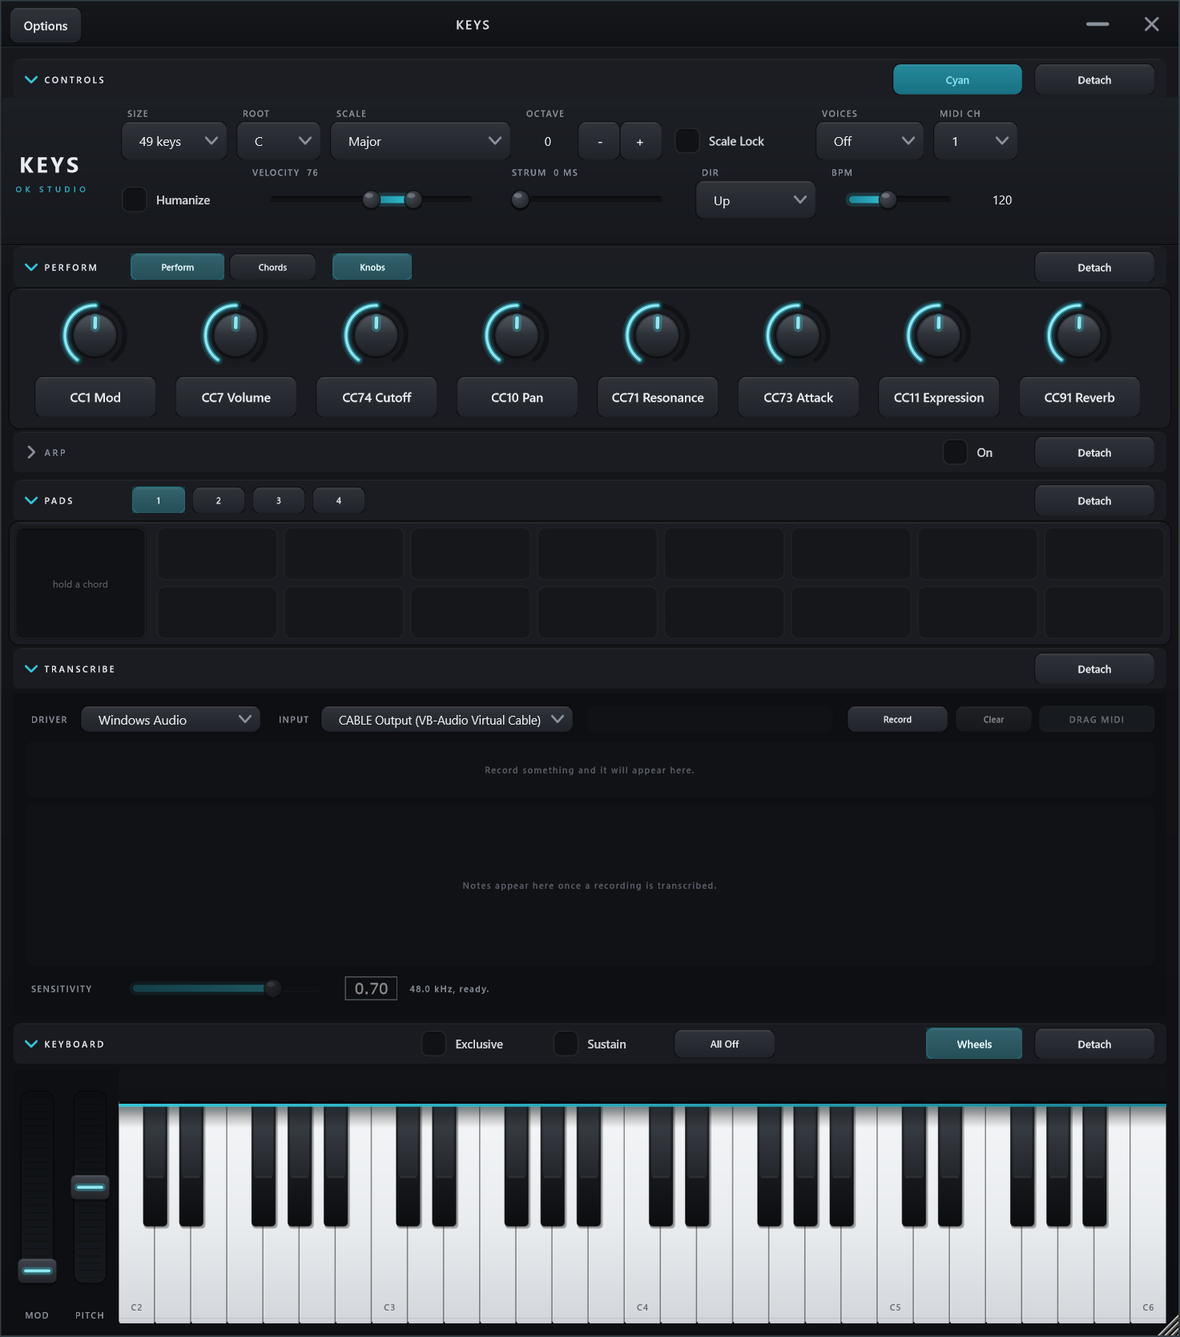
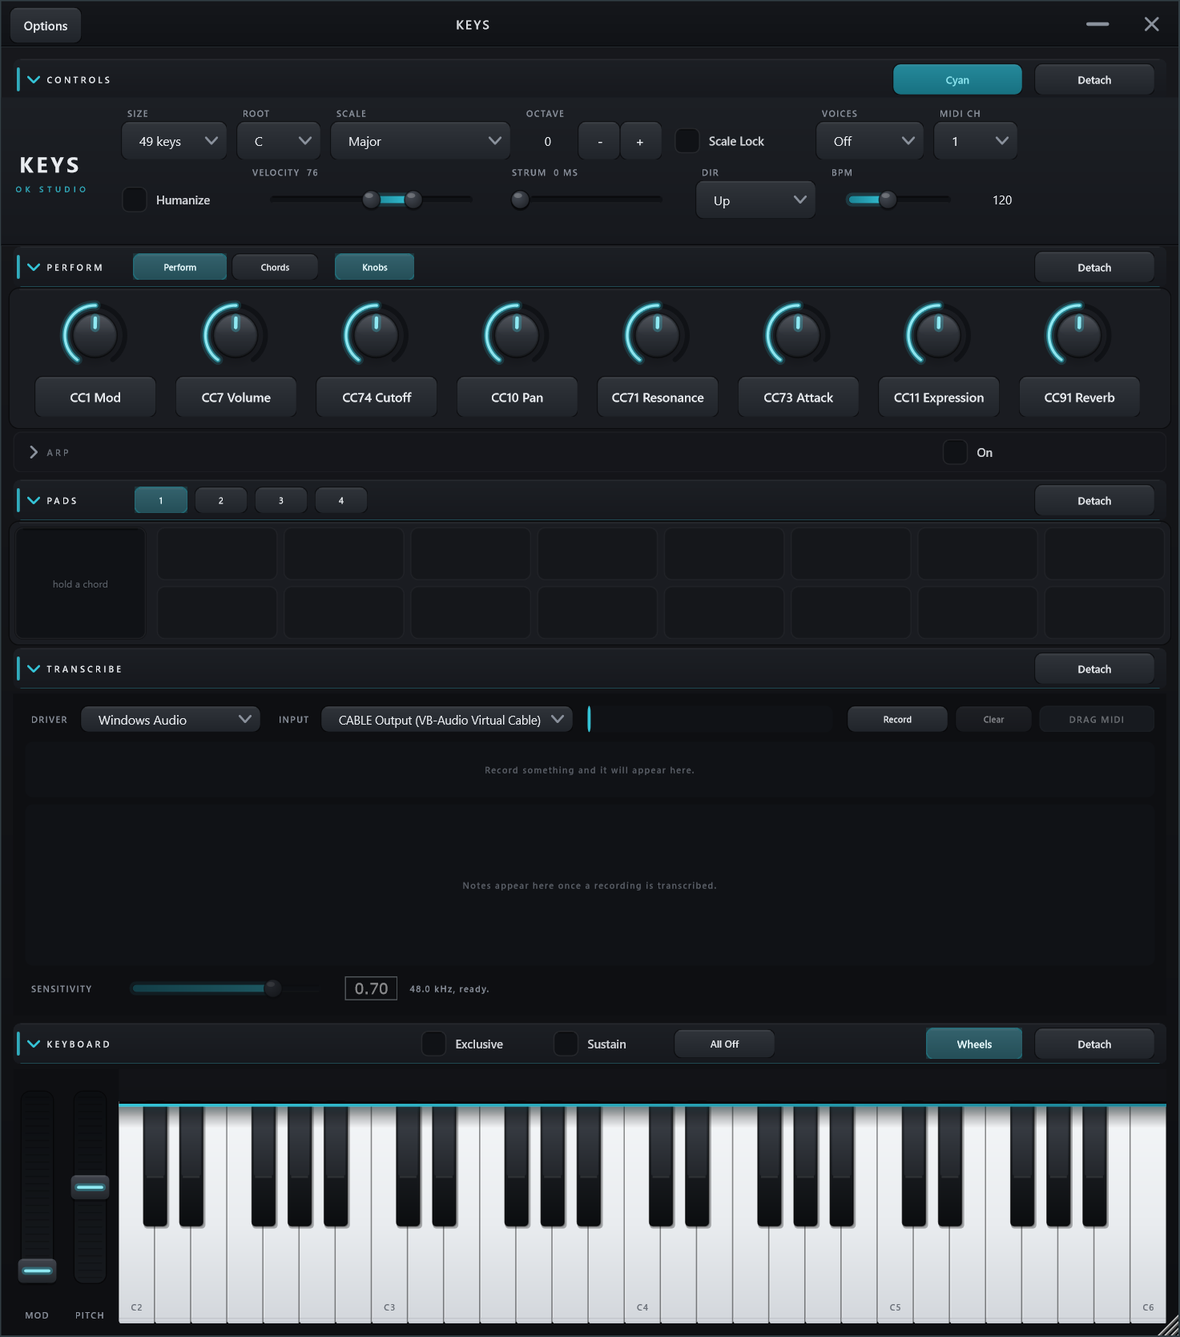
feat: the whole bar folds a section, and open and folded bars look different
Three of Owen's asks, all about the section bars.

The whole bar folds its section again. It had been narrowed to the chevron
end, to stop a click that missed a tab or a chip from folding the section by
accident - but that accident was never possible: the controls on a bar are
its siblings and sit in front of it, so z-order already stopped the bar from
stealing their clicks. What the narrowing actually did was make a full-width
34 px strip that looks like a button answer along one 40 px end of itself, so
the target got harder to hit in a plugin whose contract is that targets are
big. Reverts the "only the chevron folds a section" change, and the CHANGELOG
entry for that one now says so.

Open and folded bars are painted at different weights. Open is a solid ruled
band - gradient fill, hairline above, accent rule below where it meets its
content, brighter caption, a tick of accent at the left end. Folded is flat,
dim and outlined. Six stacked read as a shape before any caption is read,
which matters because the window is mostly bars once it is squeezed small.
All six keep the one accent colour; per-section tints would have been six.

Detach hides with its section. Folded away it was the loudest thing left on a
bar whose job is to be quiet, and it offered a gesture with nothing behind it:
detaching a folded section built a window that opened hidden. Every other
control on a bar already hid with its section, so this was the odd one out.
[…]

diff --git a/src/ui/SectionBar.h b/src/ui/SectionBar.h
@@ -13,11 +13,14 @@ namespace keys
 // contract for free: single left-click, no modifiers, and a real accessible name for the
 // UI Automation path the screenshot script uses.
 //
-// Only the chevron end folds the section, not the whole bar. The bar carries the section's
-// own controls (tabs, chips, the theme swatch), and with the entire strip live, a click
-// that missed one of those by a few pixels folded the section instead — an easy mistake to
-// make and an annoying one to undo. The hit zone is still a full 40x34 box, well past the
-// mouse-only floor; it is only the *glyph* inside it that is small.
+// **The whole bar folds it** (2026-07-27, Owen's ask). It used to be the chevron end alone,
+// on the reasoning that a click missing one of the bar's own controls by a few pixels would
+// fold the section by accident. In practice the opposite was the problem: a 40 px target on
+// a 34 px-tall full-width strip reads as if the strip is the button, so aiming at the
+// chevron was the fiddly part, and the mouse-only contract is about making targets *bigger*.
+// The controls that ride on the bar are its siblings and sit in front of it (KeysEditor
+// toBack()s every bar), so they still take their own clicks; the bar only ever gets what
+// they do not want.
 //
 // The bar is not just chrome: callers hang the section's own small controls in the space
 // to the right of the caption (see KeysEditor::resized), which is why it exposes
@@ -50,42 +53,62 @@ public:
         repaint();
     }
 
-    // The only part of the bar that reacts to a click.
-    juce::Rectangle<int> chevronZone() const { return getLocalBounds().withWidth(40); }
-
-    // Clicks outside the chevron fall through to whatever is under them, so the bar can
-    // stay full-width for painting without swallowing anything.
-    bool hitTest(int x, int y) override { return chevronZone().contains(x, y); }
-
     // Where a caller may put section controls: right of the caption, inset from the ends.
     // In the *parent's* coordinates, because those controls are the bar's siblings, not
     // its children — the bar is a Button and must keep the whole of itself clickable.
     juce::Rectangle<int> contentArea() const
     {
-        return getBoundsInParent().withTrimmedLeft(26 + captionWidth() + 12).withTrimmedRight(8).reduced(0, 4);
+        return getBoundsInParent().withTrimmedLeft(28 + captionWidth() + 12).withTrimmedRight(8).reduced(0, 4);
     }
 
     void paintButton(juce::Graphics& g, bool highlighted, bool down) override
     {
         const auto b = getLocalBounds().toFloat();
         const bool open = getToggleState();
+        const auto accent = skin::accentOf(*this).base;
 
-        g.setColour(skin::headerTop.withAlpha(0.75f));
-        g.fillRoundedRectangle(b, skin::radius);
-        g.setColour(juce::Colours::white.withAlpha(0.04f));
-        g.fillRoundedRectangle(b.withHeight(1.0f).reduced(skin::radius, 0.0f), 0.5f);
+        // Open and folded are deliberately different weights, not the same bar with a
+        // different arrow (Owen's ask, 2026-07-27). An open section's header is a solid
+        // ruled band that reads as the lid of the thing under it; a folded one is a flat
+        // dim strip that reads as a closed drawer. With six of these stacked, the shape of
+        // the window is legible before you read a single caption.
+        if (open)
+        {
+            g.setGradientFill({ skin::headerTop, b.getX(), b.getY(),
+                                skin::headerBot, b.getX(), b.getBottom(), false });
+            g.fillRoundedRectangle(b, skin::radius);
 
-        // Light only the chevron end under the mouse. The whole bar used to light up,
-        // which advertised the whole bar as the target - and it was. Now the highlight
-        // says exactly where the click has to land.
+            // Top highlight and bottom rule: the two edges that make it a band rather than
+            // a smear. The rule is the one that does the work - it is the join between the
+            // header and its content.
+            g.setColour(juce::Colours::white.withAlpha(0.05f));
+            g.fillRect(b.withHeight(1.0f).reduced(skin::radius, 0.0f));
+            g.setColour(accent.withAlpha(0.28f));
+            g.fillRect(b.withTop(b.getBottom() - 1.0f).reduced(skin::radius, 0.0f));
+
+            // A tick of accent at the left end, so the eye finds the stack of open sections
+            // down the left edge without any of them shouting.
+            g.setColour(accent.withAlpha(0.85f));
+            g.fillRoundedRectangle(juce::Rectangle<float>(3.0f, 7.0f, 2.5f, b.getHeight() - 14.0f), 1.25f);
+        }
+        else
+        {
+            g.setColour(skin::headerBot.withAlpha(0.55f));
+            g.fillRoundedRectangle(b, skin::radius);
+            g.setColour(juce::Colours::white.withAlpha(0.03f));
+            g.drawRoundedRectangle(b.reduced(0.5f), skin::radius, 1.0f);
+        }
+
+        // The whole bar is the target now, so the whole bar lights. Anything less would
+        // advertise a smaller button than the one that is actually there.
         if (highlighted || down)
         {
-            g.setColour(juce::Colours::white.withAlpha(down ? 0.10f : 0.06f));
-            g.fillRoundedRectangle(chevronZone().toFloat().reduced(3.0f, 3.0f), skin::radius);
+            g.setColour(juce::Colours::white.withAlpha(down ? 0.09f : 0.05f));
+            g.fillRoundedRectangle(b.reduced(1.0f), skin::radius);
         }
 
         // Disclosure chevron: down when open, right when folded away.
-        const auto centre = juce::Point<float>(15.0f, b.getCentreY());
+        const auto centre = juce::Point<float>(17.0f, b.getCentreY());
         juce::Path chevron;
         if (open)
         {
@@ -99,18 +122,28 @@ public:
             chevron.lineTo(centre.x + 2.5f, centre.y);
             chevron.lineTo(centre.x - 2.0f, centre.y + 4.5f);
         }
-        g.setColour(open ? skin::accentOf(*this).base : skin::textDim);
+        g.setColour(open ? accent : skin::textDim);
         g.strokePath(chevron, juce::PathStrokeType(1.8f, juce::PathStrokeType::curved,
                                                    juce::PathStrokeType::rounded));
 
-        g.setColour(open ? skin::text : skin::textDim);
-        g.setFont(skin::micro(10.0f).withExtraKerningFactor(0.16f));
-        g.drawText(title.toUpperCase(), getLocalBounds().withTrimmedLeft(26).withWidth(captionWidth()),
+        g.setColour(open ? skin::text : skin::textDim.withAlpha(0.75f));
+        g.setFont(captionFont());
+        g.drawText(title.toUpperCase(), getLocalBounds().withTrimmedLeft(28).withWidth(captionWidth()),
                    juce::Justification::centredLeft);
     }
 
 private:
-    int captionWidth() const { return juce::jmax(60, (int) std::ceil(skin::micro(10.0f).getStringWidthFloat(title.toUpperCase())) + 8); }
+    // One font for measuring and for drawing. They used to differ - captionWidth() measured
+    // the plain micro face while paintButton drew it letter-spaced - so the box was always a
+    // little narrower than the text in it, and the longest caption ellipsised to "TRANSCRI...".
+    // The kerning is also deliberately the same open and folded: it feeds contentArea(), and a
+    // caption box that changed width with the fold would shift every control on the bar.
+    static juce::Font captionFont() { return skin::micro(10.0f).withExtraKerningFactor(0.2f); }
+
+    int captionWidth() const
+    {
+        return juce::jmax(60, (int) std::ceil(captionFont().getStringWidthFloat(title.toUpperCase())) + 8);
+    }
 
     juce::String title;
 

diff --git a/src/PluginEditor.cpp b/src/PluginEditor.cpp
@@ -681,6 +681,16 @@ void KeysEditor::syncSectionControls()
         // to a screen reader and made UI Automation pick whichever it found first. Say which
         // section each one moves.
         s.detachButton.setTitle(s.detachButton.getButtonText() + " " + s.name);
+        // Detach goes away with the section it detaches (2026-07-27, Owen's ask). Folded
+        // away, it was the loudest thing left on a bar whose whole job is to be quiet, and
+        // it offered a gesture with nothing behind it: detaching a folded section built a
+        // window that opened hidden. Every other control on a bar already hides with its
+        // section - the pad pages, the Knobs chip, Wheels - so this was the odd one out
+        // rather than a rule being broken. The deliberate exceptions stay: the arp's On
+        // (folding the panel must not stop the arpeggiator), the centre's two tabs (they
+        // are how a folded centre comes back) and the theme swatch (it belongs to the
+        // plugin, not the section).
+        s.detachButton.setVisible(*s.open);
         // A holder is visible whenever its section is open, wherever it is parented: being
         // detached is a change of parent, not of visibility. Folding a detached section
         // hides its window instead of its slot, so one control means one thing.

diff --git a/docs/CONTROLS.md b/docs/CONTROLS.md
@@ -37,10 +37,16 @@ transient (they don't save with the session) and send on the current MIDI channe
 ## Folding the window down
 
 Keys is a stack of sections, and each one folds away so the plugin can be squeezed small
-when the screen is busy. **Click the chevron at the left end of a section bar** — only
-that end folds it, so a click that misses a control next to it can't collapse the section
-by accident. The window resizes itself to whatever the folds add up to, and can never be
-dragged smaller than the content it is showing.
+when the screen is busy. **Click anywhere on a section bar** to fold it, or on a folded one
+to bring it back — the whole 34 px strip is the button, not just the chevron at its left
+end. The controls that sit on a bar take their own clicks first, so hitting **Detach** or
+**On** does what it says; the bar only gets what they don't want. The window resizes itself
+to whatever the folds add up to, and can never be dragged smaller than the content it is
+showing.
+
+An open section's bar is a solid ruled band with a bright caption and a tick of accent at
+its left end. A folded one goes flat and dim and drops its Detach button. So the shape of
+the window reads at a glance, before you have read a single caption.
 
 | Section | Bar | Folds away |
 |---------|-----|-----------|
@@ -53,11 +59,15 @@ dragged smaller than the content it is showing.
 
 ### Detaching a section
 
-**Every section bar has a Detach button**, at its right-hand end. It puts that section in a
-resizable window of its own, which you can put anywhere on the desk and size to suit. Inside
-that window a **Re-dock** button sits at the top, and the window's close box does the same
-thing; either brings the section home. Each window's position and size are remembered with
-the session, and one that ends up off-screen is pulled back on before it opens.
+**Every open section bar has a Detach button**, at its right-hand end. It puts that section
+in a resizable window of its own, which you can put anywhere on the desk and size to suit.
+Inside that window a **Re-dock** button sits at the top, and the window's close box does the
+same thing; either brings the section home. Each window's position and size are remembered
+with the session, and one that ends up off-screen is pulled back on before it opens.
+
+A folded section has no Detach button: unfold it first. There was nothing behind the gesture
+anyway — detaching a folded section built a window that opened hidden — and on a bar whose
+whole job is to be quiet, it was the loudest thing left.
 
 A detached section takes no height in the main window, so this is also the way to keep a tall
 section open and the plugin window small at the same time. Folding a detached section hides
@@ -72,6 +82,12 @@ alongside Re-dock, because those belong to the keybed rather than to the editor.
 What stays behind on a bar is whatever belongs to the editor rather than to the section: the
 **Perform / Chords** tabs, the arp's **On** toggle, the pad page buttons, and the theme
 swatch. All of them keep working while the section they name is off in a window.
+
+Folding is the other case, and a stricter one: a folded bar keeps only what still means
+something with the section gone — the arp's **On** (so the arpeggiator runs on behind a
+closed panel), the **Perform / Chords** tabs (they are how a folded centre comes back) and
+the theme swatch (it colours the whole plugin). Everything else goes with the section,
+Detach included.
 
 ## Transcribe
 

diff --git a/docs/ARCHITECTURE.md b/docs/ARCHITECTURE.md
@@ -269,7 +269,11 @@ window of its own: **Controls** (the two header rows), the **centre view**, the 
 **Pads**, **Transcribe**, and the **Keyboard** (with the wheels as a sub-fold).
 `SectionBar` is the fold affordance — a `juce::Button` so the mouse-only contract and the
 accessible name come for free, with the section's own small controls laid out as its
-siblings in `contentArea()`.
+siblings in `contentArea()`. The whole bar is the target, and it paints open and folded at
+different weights (see below). One trap: `captionWidth()` feeds both the caption's own text
+box and `contentArea()`, so it and `paintButton()` have to measure with the same
+`captionFont()` — measure narrower than you draw and the longest caption ellipsises; vary
+the font with the fold state and every control on the bar shifts when the section folds.
 
 **Transcribe** is the odd one out: it is the only part of Keys that consumes audio rather
 than producing MIDI, and the only section whose panel owns a device. Like the arp's, its
@@ -295,12 +299,24 @@ reach a chord. Their page buttons ride on the Pads bar. What a card click *means
 arp's own On state (`KeysProcessor::cardsFeedArp`): with the arp running, a click hands that
 chord over and leaves it there instead of playing it while the button is down.
 
-The bars are full-width translucent Buttons and the controls on them are *siblings*, not
-children: a bar stays full-width so it can paint its caption and fold state across the whole
-strip, while `SectionBar::hitTest` narrows what answers a click to the 40 px chevron end, so
-a click that misses a control by a few pixels cannot fold the section by accident. Z-order
-therefore matters: they are sent `toBack()` after construction, or each bar paints over its
-own tabs.
+The bars are full-width Buttons and the controls on them are *siblings*, not children. The
+whole strip answers a click, so folding a section is a 34 px-tall full-width target rather
+than a 40 px box at one end. What keeps that from swallowing the controls riding on it is
+z-order, not hit-testing: the bars are sent `toBack()` after construction, so every sibling
+sits in front and takes its own clicks first, and the bar only ever gets what none of them
+wanted. (That `toBack()` is load-bearing twice over — without it each bar also paints over
+its own tabs.)
+
+`SectionBar` used to narrow its own `hitTest` to the chevron end, on the reasoning that a
+click missing a control by a few pixels would fold the section by accident. It was solving a
+problem z-order already solved, and it cost the thing the mouse-only contract cares about
+most: a full-width strip that looks like a button but only answers along one end makes the
+target *harder* to hit, not safer.
+
+Open and folded bars are painted at deliberately different weights — the open one is a solid
+ruled band with an accent tick, the folded one flat and dim — so a stack of six reads as a
+shape before any caption is read. The Detach button hides with its section for the same
+reason, and because detaching a folded section only ever built a window that opened hidden.
 
 ## The accent is per instance
 

diff --git a/CHANGELOG.md b/CHANGELOG.md
@@ -5,6 +5,32 @@ All notable changes to Keys are documented here. Format follows
 
 ## [Unreleased]
 
+### Changed: the section bars read as headers, and the whole bar folds it again
+
+Three of Owen's asks, all about the same strip.
+
+**The whole bar folds the section again.** It had been narrowed to the chevron end, to stop
+a click that missed a tab or a chip from folding the section by accident. That accident was
+never possible: the controls on a bar are its *siblings* and sit in front of it, so z-order
+already stopped the bar from stealing their clicks. What the narrowing did instead was make
+a full-width 34 px strip that looks like a button answer along one 40 px end of itself — so
+the target got harder to hit, in a plugin whose whole contract is that targets are big.
+
+**Open and folded bars look different now.** An open one is a solid ruled band: a gradient
+fill, a hairline above, an accent rule below where it meets its content, a brighter caption
+and a tick of accent at its left end. A folded one is flat, dim and outlined. Six of these
+stacked read as a shape before you have read a caption, which is the point — the window is
+mostly bars when it is squeezed small. All six stay the one accent colour; the skin has
+exactly one, and per-section tints would have been six.
+
+**Detach hides with its section.** Folded away, it was the loudest thing left on a bar whose
+whole job is to be quiet, and it offered a gesture with nothing behind it: detaching a folded
+section built a window that opened hidden. Every other control on a bar already hid with its
+section — the pad pages, the Knobs chip, Wheels — so this was the odd one out rather than a
+rule being broken. The deliberate exceptions stay put: the arp's **On** (folding the panel
+must never stop the arpeggiator), the centre's two tabs (they are how a folded centre comes
+back) and the theme swatch (it belongs to the plugin, not to a section).
+
 ### Fixed: run.py hung with a blank console instead of launching
 
 Smart App Control gates every freshly linked unsigned build, and it does so **two different
@@ -518,6 +544,11 @@ The whole section bar was the target, so a click that missed a tab or a chip by 
 pixels folded the section instead. Now just the chevron end does — still a full 40x34 hit
 box, and the hover highlight sits on it rather than lighting the whole bar, so where to
 click is visible rather than remembered.
+
+> **Reversed on 2026-07-27** — see "the whole section bar folds it again" above. The
+> accident this was guarding against could not actually happen: the controls on a bar are
+> siblings sitting in front of it, so z-order already stopped the bar from stealing their
+> clicks.
 
 ### Changed: one velocity control, not two
 

diff --git a/README.md b/README.md
@@ -34,8 +34,10 @@ The hex-grid sibling, **Hex Host**, moved out to its own repo: [`../Hex`](../Hex
 
 One view, no tabs: header controls, a centre view (the eight knobs, or the chord
 generator), then the arpeggiator, the chord pads, the transcriber, and the playing surface.
-Every section folds away so the window can be squeezed small, and every one of them also
-detaches into a resizable window of its own.
+Every section folds away so the window can be squeezed small — click anywhere on its bar —
+and every one of them also detaches into a resizable window of its own. An open section's
+bar is a ruled band with a tick of accent; a folded one goes flat and dim, so the shape of
+the window reads before you have read a caption.
 
 ![Keys](assets/screenshots/keys.png)
 
@@ -80,7 +82,7 @@ the generator's cards and the arp slots; only **Send to arp slot** lives nowhere
 | **Arp** | Its own section too. The bar carries an **On** toggle, so the arpeggiator can be switched on with the section folded shut; inside are the control band and twelve launchable slots, each holding a pattern and a chord that one click installs. With it on, clicking a chord card hands that chord to the arp and leaves it there |
 | **Chords** | The chord generator — see below |
 | **Theme** | Colour this instance, so you can tell it from Keys on your other tracks |
-| **Detach** | On every section bar: puts that section in a resizable window of its own. Re-dock from inside the window, or close it |
+| **Detach** | On every open section bar: puts that section in a resizable window of its own. Re-dock from inside the window, or close it. Folded sections hide it — click the bar to bring the section back first |
 | **All Off** | Stop everything |
 
 Full detail in [docs/CONTROLS.md](docs/CONTROLS.md).

diff --git a/CLAUDE.md b/CLAUDE.md
@@ -106,6 +106,13 @@ Read `docs/ARCHITECTURE.md` first. Load-bearing ideas:
   The Re-dock button travels into the window; controls that belong to the editor rather
   than the content (the centre tabs, arp On, the pad pages, the theme swatch) stay on the
   bar. The keybed keeps two extras of its own via `Section::travellers`.
+  The **whole bar** folds its section, not just the chevron: the bar's controls are siblings
+  sitting in front of it (every bar is `toBack()`ed), so z-order already stops it stealing
+  their clicks and `SectionBar::hitTest` had nothing left to protect. **Detach hides with
+  its section** — the exceptions that stay on a folded bar are arp On, the centre tabs and
+  the theme swatch, each for a stated reason. Open and folded bars are painted at different
+  weights on purpose; `captionWidth()` and `paintButton()` must use the one `captionFont()`,
+  or the caption ellipsises and the controls beside it shift as a section folds.
 - **Keys watches its MIDI input but never consumes it.** `watchInputNotes()` runs first
   thing in `processBlock`, before the collector drains, and records which pitches the
   incoming stream turns on (a flag per pitch, not a count). `isNoteSounding()` answers

diff --git a/docs/ARP_DESIGN.md b/docs/ARP_DESIGN.md
@@ -252,9 +252,13 @@ Concrete remaps:
 The arp is a foldable **section**, between the centre view and the chord pads, with its
 **On** toggle and a **Detach** button on its own bar. Folding the section destroys the
 editor, never the arpeggiator, which is why On lives on the bar rather than inside the
-panel. Detach moves the whole panel into a resizable window (`DetachedWindow`, shared with
-every other section since 2026-07-27); a detached section takes no height in the main
-window, and the Re-dock button travels into the window with it.
+panel — and why On is one of the few things that stays put when the section folds, while
+Detach hides with it. Detach moves the whole panel into a resizable window
+(`DetachedWindow`, shared with every other section since 2026-07-27); a detached section
+takes no height in the main window, and the Re-dock button travels into the window with it.
+
+Clicking the bar anywhere but on **On** folds the panel away, which makes the arpeggiator
+easy to leave running behind a single dim strip.
 
 It got there in three steps, all at Owen's request. A full-editor overlay first, changed to
 a centre view on 2026-07-25 because the overlay dimmed and covered the keyboard you are
